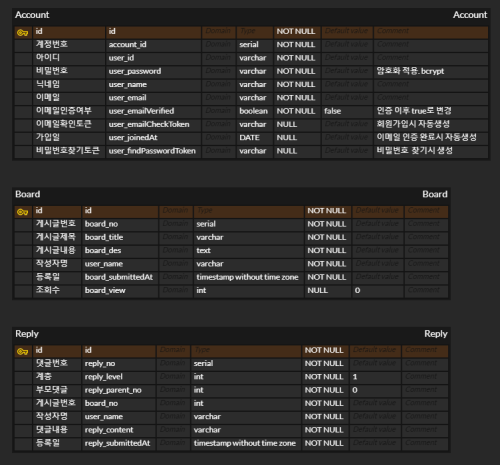
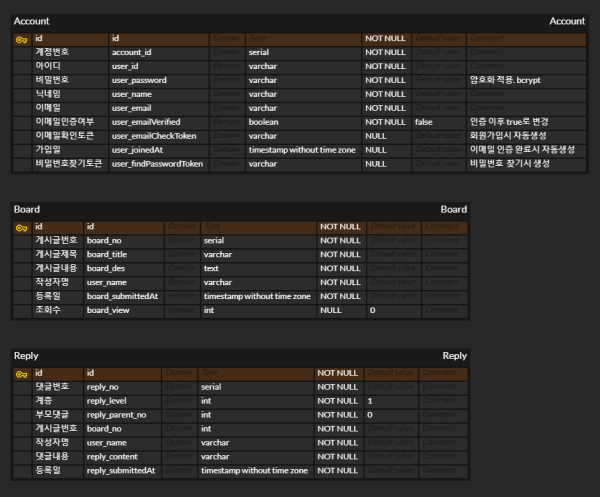
이메일재인증 페이지 구현, schema 데이터타입 수정

diff --git a/src/main/resources/templates/account/resend-email.html b/src/main/resources/templates/account/resend-email.html
@@ -1,0 +1,38 @@
+<!DOCTYPE html>
+<html lang="en"
+      xmlns:th="http://www.thymeleaf.org"
+      xmlns:sec="http://www.thymeleaf.org/extras/spring-security">
+<head th:replace="fragments::head">
+</head>
+<body class="bg-light">
+    <div th:replace="fragments::main-nav"></div>
+    <div class="container">
+        <div class="py-5 text-center">
+            <h2>이메일 재인증</h2>
+        </div>
+        <div class="row justify-content-center">
+
+            <div th:if="${#strings.equals(error,'wrong')}" class="alert alert-danger text-center" role="alert">
+                <p>이메일이 올바르지 않거나, 해당하는 계정이 존재하지 않습니다.</p>
+            </div>
+
+            <form class="needs-validation col-sm-6"
+                  action="#" th:action="@{/account/resend-email}" method="post" novalidate>
+                <div class="form-group mb-3">
+                    <label for="email">이메일</label>
+                    <input id="email" type="text" name="email" class="form-control"
+                           placeholder="sample@gmail.com" required>
+                    <small class="form-text text-muted">이메일을 입력해주세요.</small><br>
+                    <small class="invalid-feedback">이메일이 올바르지 않거나, 해당하는 계정이 존재하지 않습니다.</small><br>
+                </div>
+
+                <div class="form-group mb-3">
+                    <button class="btn btn-success btn-block" type="submit"
+                            aria-describedby="submitHelp">인증 재전송</button>
+                </div>
+            </form>
+        </div>
+    </div>
+<script type="application/javascript" th:replace="fragments::form-validation"></script>
+</body>
+</html>

diff --git a/src/main/resources/templates/board-index.html b/src/main/resources/templates/board-index.html
@@ -7,7 +7,7 @@
 <body class="bg-light">
     <div class="alert alert-warning" role="alert" th:if="${account != null && !account.emailVerified}">
         이메일 인증이 완료되지 않았습니다.
-        <a href="#" th:href="@{/check-email}" class="alert-link">이메일 인증 재전송하기</a>
+        <a href="#" th:href="@{/resend-email}" class="alert-link">이메일 인증 재전송하기</a>
     </div>
     <div th:replace="fragments::main-nav"></div>
     <div class="container py-5">

diff --git a/src/main/resources/templates/board/board-view.html b/src/main/resources/templates/board/board-view.html
@@ -7,7 +7,7 @@
 <body class="bg-light">
     <div class="alert alert-warning" role="alert" th:if="${account != null && !account.emailVerified}">
         이메일 인증이 완료되지 않았습니다.
-        <a href="#" th:href="@{/check-email}" class="alert-link">이메일 인증 재전송하기</a>
+        <a href="#" th:href="@{/resend-email}" class="alert-link">이메일 인증 재전송하기</a>
     </div>
     <div th:replace="fragments::main-nav"></div>
     <div class="container py-5">

diff --git a/src/main/resources/templates/board/search-result.html b/src/main/resources/templates/board/search-result.html
@@ -7,7 +7,7 @@
 <body class="bg-light">
     <div class="alert alert-warning" role="alert" th:if="${account != null && !account.emailVerified}">
         이메일 인증이 완료되지 않았습니다.
-        <a href="#" th:href="@{/check-email}" class="alert-link">이메일 인증 재전송하기</a>
+        <a href="#" th:href="@{/resend-email}" class="alert-link">이메일 인증 재전송하기</a>
     </div>
     <div th:replace="fragments::main-nav"></div>
     <div class="container py-5">

diff --git a/src/main/resources/templates/account/done.html b/src/main/resources/templates/account/done.html
@@ -7,7 +7,7 @@
 <body class="bg-light">
     <div class="alert alert-warning" role="alert" th:if="${account != null && !account.emailVerified}">
         이메일 인증이 완료되지 않았습니다.
-        <a href="#" th:href="@{/check-email}" class="alert-link">이메일 인증 재전송하기</a>
+        <a href="#" th:href="@{/resend-email}" class="alert-link">이메일 인증 재전송하기</a>
     </div>
     <div th:replace="fragments::main-nav"></div>
     <div class="container">

diff --git a/src/main/resources/templates/board/board-form.html b/src/main/resources/templates/board/board-form.html
@@ -7,7 +7,7 @@
 <body class="bg-light">
     <div class="alert alert-warning" role="alert" th:if="${account != null && !account.emailVerified}">
         이메일 인증이 완료되지 않았습니다.
-        <a href="#" th:href="@{/check-email}" class="alert-link">이메일 인증 재전송하기</a>
+        <a href="#" th:href="@{/resend-email}" class="alert-link">이메일 인증 재전송하기</a>
     </div>
     <div th:replace="fragments::main-nav"></div>
     <div class="container">

diff --git a/src/main/resources/templates/board/board-modify.html b/src/main/resources/templates/board/board-modify.html
@@ -7,7 +7,7 @@
 <body class="bg-light">
     <div class="alert alert-warning" role="alert" th:if="${account != null && !account.emailVerified}">
         이메일 인증이 완료되지 않았습니다.
-        <a href="#" th:href="@{/check-email}" class="alert-link">이메일 인증 재전송하기</a>
+        <a href="#" th:href="@{/resend-email}" class="alert-link">이메일 인증 재전송하기</a>
     </div>
     <div th:replace="fragments::main-nav"></div>
     <div class="container">

diff --git a/src/main/resources/templates/error.html b/src/main/resources/templates/error.html
@@ -7,7 +7,7 @@
 <body class="bg-light">
     <div class="alert alert-warning" role="alert" th:if="${account != null && !account.emailVerified}">
         이메일 인증이 완료되지 않았습니다.
-        <a href="#" th:href="@{/check-email}" class="alert-link">이메일 인증 재전송하기</a>
+        <a href="#" th:href="@{/resend-email}" class="alert-link">이메일 인증 재전송하기</a>
     </div>
     <div th:replace="fragments::main-nav"></div>
     <div class="container">

diff --git a/src/main/resources/templates/index.html b/src/main/resources/templates/index.html
@@ -7,7 +7,7 @@
 <body class="bg-light">
     <div class="alert alert-warning" role="alert" th:if="${account != null && !account.emailVerified}">
         이메일 인증이 완료되지 않았습니다.
-        <a href="#" th:href="@{/check-email}" class="alert-link">이메일 인증 재전송하기</a>
+        <a href="#" th:href="@{/resend-email}" class="alert-link">이메일 인증 재전송하기</a>
     </div>
     <div th:replace="fragments::main-nav"></div>
 

diff --git a/src/main/java/com/lyj/portfolio/account/AccountController.java b/src/main/java/com/lyj/portfolio/account/AccountController.java
@@ -1,5 +1,6 @@
 package com.lyj.portfolio.account;
 
+import com.lyj.portfolio.CurrentAccount;
 import com.lyj.portfolio.VO.Account;
 import com.lyj.portfolio.mapper.AccountMapper;
 import com.lyj.portfolio.validator.SignUpFormValidator;
@@ -62,6 +63,27 @@ public class AccountController {
         model.addAttribute("account",account);
         return "redirect:/";
     }
+
+    @GetMapping("/resend-email")
+    public String reSendEmailToken(@CurrentAccount Account account, Model model) {
+        return "account/resend-email";
+    }
+
+
+    @PostMapping("/account/resend-email")
+    public String reSendEmailsubmit(@Valid @RequestParam(value ="email") String email, Model model) {
+        Account account = accountMapper.findByEmail(email);
+        if(account == null) {
+            model.addAttribute("error","wrong");
+            return "account/resend-email";
+        }
+
+        account.generatedEmailCheckToken();
+        accountMapper.insertEmailCheckToken(account);
+        accountService.sendMailToken(account);
+
+        model.addAttribute("message","Mail");
+        return "account/done";    }
 
 
     //비밀번호 찾기 관련 핸들러

diff --git a/src/main/java/com/lyj/portfolio/config/SecurityConfig.java b/src/main/java/com/lyj/portfolio/config/SecurityConfig.java
@@ -33,7 +33,7 @@ public class SecurityConfig extends WebSecurityConfigurerAdapter {
                         "/board/view-reply", "/check-find-password",
                         "/account/find-password", "/account/change-password", "/searchBoard",
                         "/board/search-result", "/search-result",
-                        "/pageTest"
+                        "/pageTest", "/account/resend-email"
                         ).permitAll()
                 .mvcMatchers(HttpMethod.GET, "/profile/*").permitAll()
                 .anyRequest().authenticated();
